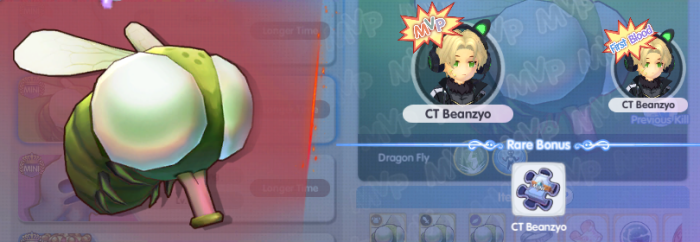
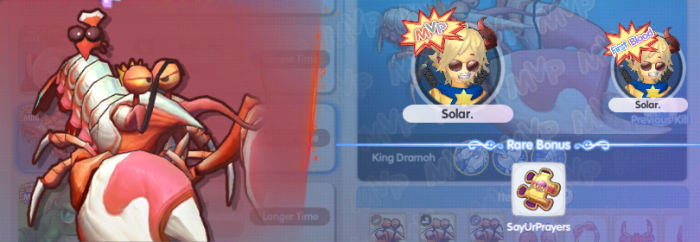
removed event bosses (sd/od)

diff --git a/BossHuntGPT.py b/BossHuntGPT.py
@@ -18,7 +18,7 @@ def establish_appium_connection():
         "platformName": "Android",
         "deviceName": "Android Emulator",
         "autoGrantPermissions": False,
-        "udid": "127.0.0.1:5556",  # Change this with device name found in "adb devices" cmd
+        "udid": "emulator-5554",  # Change this with device name found in "adb devices" cmd
         "noReset": True
     }
 
@@ -32,8 +32,6 @@ driver = establish_appium_connection()
 
 # Set the banner text to monitor for
 banner_texts = [   
-    "Storm Dragon w",
-    "Orc Disaster w",
     "Mistress w",
     "Phreeoni w",
     "Kraken w",
@@ -69,8 +67,6 @@ banner_texts = [
 
 # Check the full name of the boss in the banner
 banner_lookup = {
-    'Storm Dragon w': 'Storm Dragon',
-    'Orc Disaster w': 'Orc Disaster',
     'Mistress w': 'Mistress',
     'Phreeoni w': 'Phreeoni',
     'Kraken w': 'Kraken',
@@ -151,7 +147,6 @@ boss_status = {
 
 # Define a dictionary for the bosses and their status
 minis = {
-    'Orc Disaster': -1,
     'Eclipse': -1,
     'Dragon Fly': -1,
     'Ghostring': -1,
@@ -172,7 +167,6 @@ minis = {
 
 # Define a dictionary for the bosses and their status
 mvps = {
-    'Storm Dragon': -1,
     'Phreeoni': -1,
     'Mistress': -1,
     'Eddga': -1,
@@ -889,9 +883,9 @@ intents = discord.Intents.default()
 client = discord.Client(intents=intents)
 
 # Set the ID of the Discord channel to send messages to
-channel_banners_id = 1087725231159914606
-channel_boss_occurence_id = 1126518099454201866
-channel_boss_deaths_id = 1126518142500352010
+channel_banners_id = 1128801527969091736
+channel_boss_occurence_id = 1128801544473677985
+channel_boss_deaths_id = 1128801554686820432
 
 # Event listener for when the bot is ready
 @client.event
@@ -912,7 +906,6 @@ async def on_ready():
     print(f"(initial) Count = {counter}", flush=True)
 
     current_screen = cv2.imread('current-screen.png')
-    
     
     current_boss = TOP_MVP
     current_boss_type = 'MVP'
